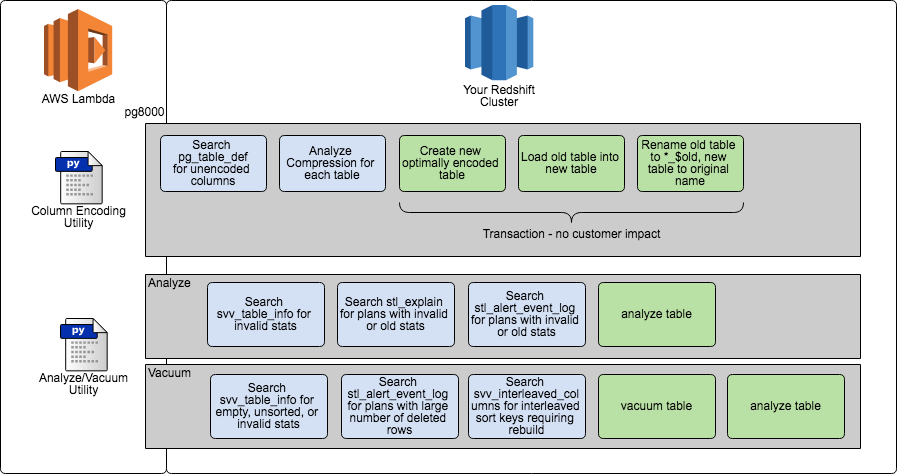
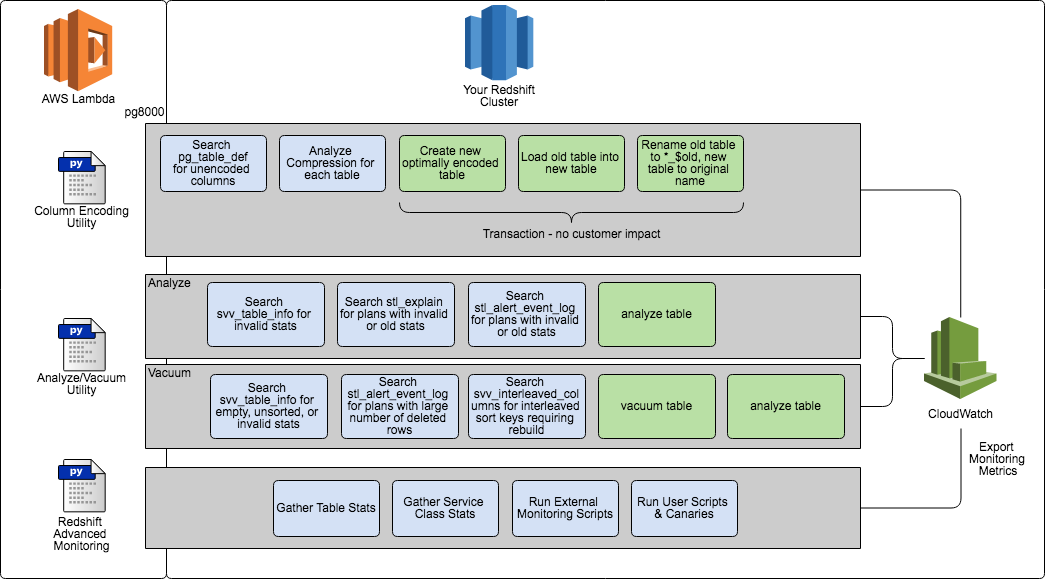
Doc Updates for Monitoring Utility

diff --git a/src/LambdaRunner/README.md b/src/LambdaRunner/README.md
@@ -6,7 +6,7 @@ This project includes code that is able to run a subset of the Amazon Redshift U
 
 This utility creates a Lambda function which imports other Redshift Utils modules, and then invokes them against a cluster. It runs within your VPC, and should be configured to connect via a Subnet which is either the same, or can route to the subnet where your Redshift cluster is running. It should also be configured with a Security Group which is trusted by your [Redshift Cluster Security Configuration](http://docs.aws.amazon.com/redshift/latest/mgmt/working-with-security-groups.html).
 
-Currently the [Column Encoding Utility](src/ColumnEncodingUtility) and [Analyze/Vacuum Utility](src/AnalyzeVacuumUtility) are supported for automated invocation:
+Currently the [Column Encoding Utility](src/ColumnEncodingUtility), [Analyze/Vacuum Utility](src/AnalyzeVacuumUtility), and [Redshift Advanced Monitoring](https://github.com/awslabs/amazon-redshift-monitoring) are supported for automated invocation:
 
 ![what it does](WhatItDoes.png)
 
@@ -38,7 +38,7 @@ This lambda function uses a configuration file to get information about which cl
 The required configuration items are placed into the ```configuration``` part of the config file, and include:
 
 ```
-{"utilities":["ColumnEncodingUtility", "AnalyzeVacuumUtility"],
+{"utilities":["ColumnEncodingUtility", "AnalyzeVacuumUtility", "Monitoring"],
 "configuration":{
   "analyzeTable": "Specific table names to operate on (string)",
   "analyzeSchema": "Schema to be analyzed, vacuumed, or encoded (string)",
@@ -106,7 +106,8 @@ When completed, it will deploy the following objects:
 * `RedshiftAutomation-LambdaRedshiftAutomation-**********`: The AWS Lambda Function which runs via the CloudWatch Scheduled Events
 * `InvokeLambdaRedshiftRunner-AnalyzeVacuumUtility`: The CloudWatch Scheduled Event which runs the [Analyze & Vacuum Utility](https://github.com/awslabs/amazon-redshift-utils/tree/master/src/AnalyzeVacuumUtility)
 * `InvokeLambdaRedshiftRunner-ColumnEncodingUtility`: The CloudWatch Scheduled Event which runs the [Column Encoding Utility](https://github.com/awslabs/amazon-redshift-utils/tree/master/src/ColumnEncodingUtility)
-* _2 AWS Lambda Permissions are also created so that CloudWatch Events can call the Lambda function_
+* `InvokeLambdaRedshiftRunner-MonitoringUtility`: The CloudWatch Scheduled Event which runs the [Redshift Advanced Monitoring Utility](https://github.com/awslabs/amazon-redshift-monitoring/)
+* _3 AWS Lambda Permissions are also created so that CloudWatch Events can call the Lambda function_
 
 ## Running the Modules
 
@@ -122,6 +123,12 @@ __To run the Analyze/Vacuum Utility__
 
 ```javascript
 {"ExecuteUtility":"AnalyzeVacuumUtility","ConfigLocation":"s3//mybucket/myprefix/config.json"}
+```
+
+__To run the Monitoring Utility__
+
+```javascript
+{"ExecuteUtility":"Monitoring","ConfigLocation":"s3//mybucket/myprefix/config.json"}
 ```
 
 You can change the CRON schedule for each event so they don't run at the same time, if you prefer.
